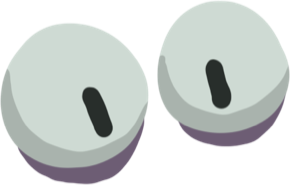
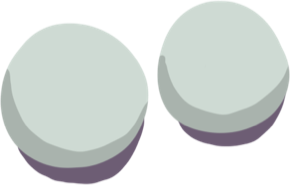
Olhos com pupilas separadas que olham para os lados de vez em quando

Changed region(s): [[0.2793, 0.4595, 0.4034, 0.7568], [0.6828, 0.2973, 0.8069, 0.5946]]

diff --git a/index.html b/index.html
@@ -96,15 +96,26 @@
   .chara img { position: absolute; display: block; height: auto; }
   .chara .face { position: absolute; inset: 0; transform-origin: 50% 95%; animation: idle 5.2s ease-in-out infinite; }   /* cabeça respirando; as mãos ficam paradas */
   .chara .head { left: 0; top: 0; width: 100%; }
-  .chara .eyes { left: 30.4%; top: 26.5%; width: 49.6%; }
-  .chara .eyes.closed { opacity: 0; animation: blink 5.5s infinite; }
+  .chara .eyes { position: absolute; left: 30.4%; top: 26.5%; width: 49.6%; aspect-ratio: 428 / 274; }
+  .chara .eyes .eyes-base, .chara .eyes .eyes-lids { left: 0; top: 0; width: 100%; height: 100%; }
+  .chara .eyes-lids { opacity: 0; animation: blink 5.5s infinite; }                /* pálpebras: ficam por cima das pupilas */
+  .chara .pupils { position: absolute; inset: 0; animation: gaze 13s ease-in-out infinite; }
+  .chara .pupil { width: 10.5%; height: auto; }
+  .chara .pupil.l { left: 28.2%; top: 47.8%; }
+  .chara .pupil.r { left: 69.7%; top: 32.8%; }
   .chara .mouth { left: 52.5%; top: 80%; width: 20.9%; }
   .chara .hand { top: 82.6%; width: 26%; }
   .chara .hand.l { left: 13.3%; }
   .chara .hand.r { left: 79%; transform: scaleX(-1); }
   @keyframes idle { 0%, 100% { transform: translateY(1px) rotate(0deg); } 50% { transform: translateY(-5px) rotate(-1.3deg); } }
+  @keyframes gaze {   /* olha para os lados de vez em quando; as duas pupilas se movem juntas */
+    0%, 18%, 38%, 46%, 68%, 76%, 94%, 100% { transform: translate(0, 0); }
+    22%, 34% { transform: translate(-6%, 1%); }
+    52%, 64% { transform: translate(6%, -4%); }
+    80%, 90% { transform: translate(-3%, -5%); }
+  }
   @keyframes blink { 0%, 92%, 100% { opacity: 0; } 94%, 97% { opacity: 1; } }
-  @media (prefers-reduced-motion: reduce) { .chara .eyes.closed, .chara .face { animation: none; } }
+  @media (prefers-reduced-motion: reduce) { .chara .eyes-lids, .chara .face, .chara .pupils { animation: none; } }
 
   .backdrop { position: fixed; inset: 0; background: rgba(0,0,0,.55); display: none; align-items: flex-end; justify-content: center; z-index: 10; }
   .backdrop.open { display: flex; }
@@ -165,8 +176,11 @@
   <div class="chara">
     <div class="face">
       <img class="head" src="assets/head.png" alt="">
-      <img class="eyes open" src="assets/eyes-open.png" alt="">
-      <img class="eyes closed" src="assets/eyes-closed.png" alt="">
+      <div class="eyes">
+        <img class="eyes-base" src="assets/eyes-open.png" alt="">
+        <div class="pupils"><img class="pupil l" src="assets/pupil.png" alt=""><img class="pupil r" src="assets/pupil.png" alt=""></div>
+        <img class="eyes-lids" src="assets/eyes-closed.png" alt="">
+      </div>
       <img class="mouth" src="assets/mouth.png" alt="">
     </div>
     <img class="hand l" src="assets/hand.png" alt="">

diff --git a/sw.js b/sw.js
@@ -1,9 +1,9 @@
 // Rede primeiro (pega atualizações), cache como reserva para funcionar offline.
-const CACHE = 'ciclo-v6';
+const CACHE = 'ciclo-v7';
 const ASSETS = [
   './', 'index.html', 'manifest.json', 'icon-192.png', 'icon-512.png', 'icon-maskable-512.png', 'apple-touch-icon.png',
   'assets/bg.jpg', 'assets/bar.png', 'assets/bar-pink.png', 'assets/big-square.png', 'assets/big-square-dark.png', 'assets/sq2-dark.png', 'assets/sq1.png', 'assets/sq2.png', 'assets/sq3.png',
-  'assets/head.png', 'assets/eyes-open.png', 'assets/eyes-closed.png', 'assets/mouth.png', 'assets/hand.png',
+  'assets/head.png', 'assets/eyes-open.png', 'assets/pupil.png', 'assets/eyes-closed.png', 'assets/mouth.png', 'assets/hand.png',
 ];
 
 self.addEventListener('install', e => {
